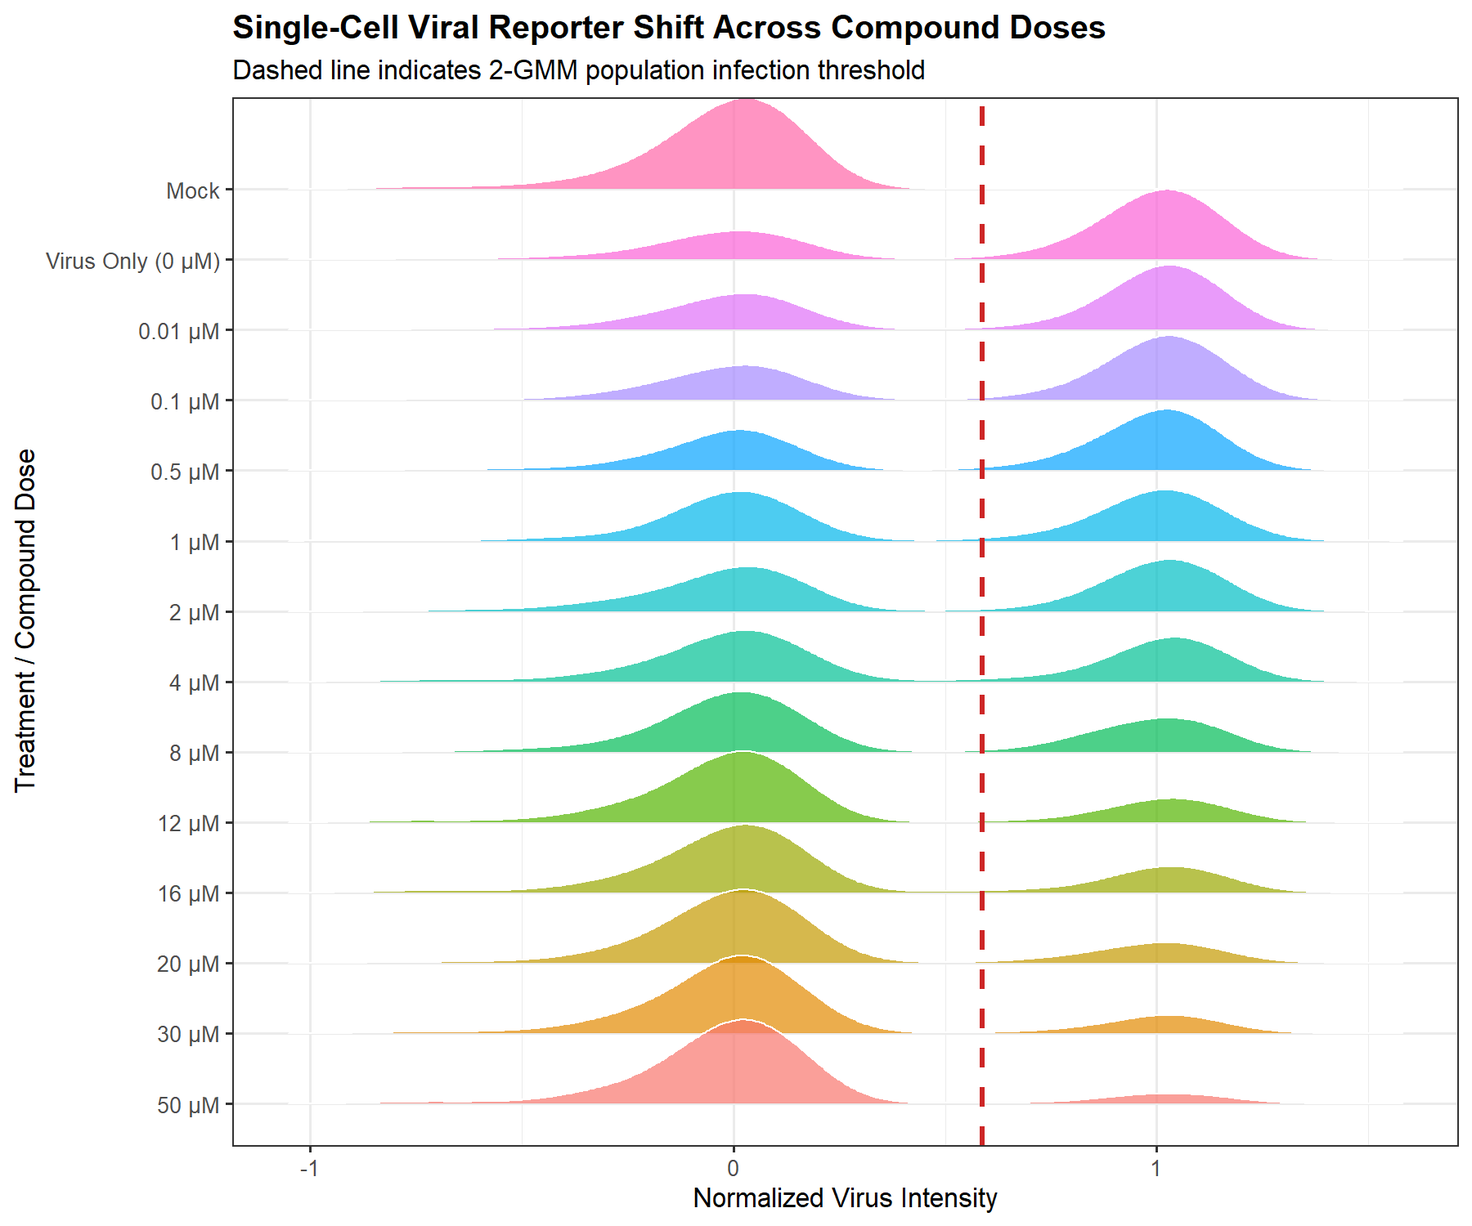
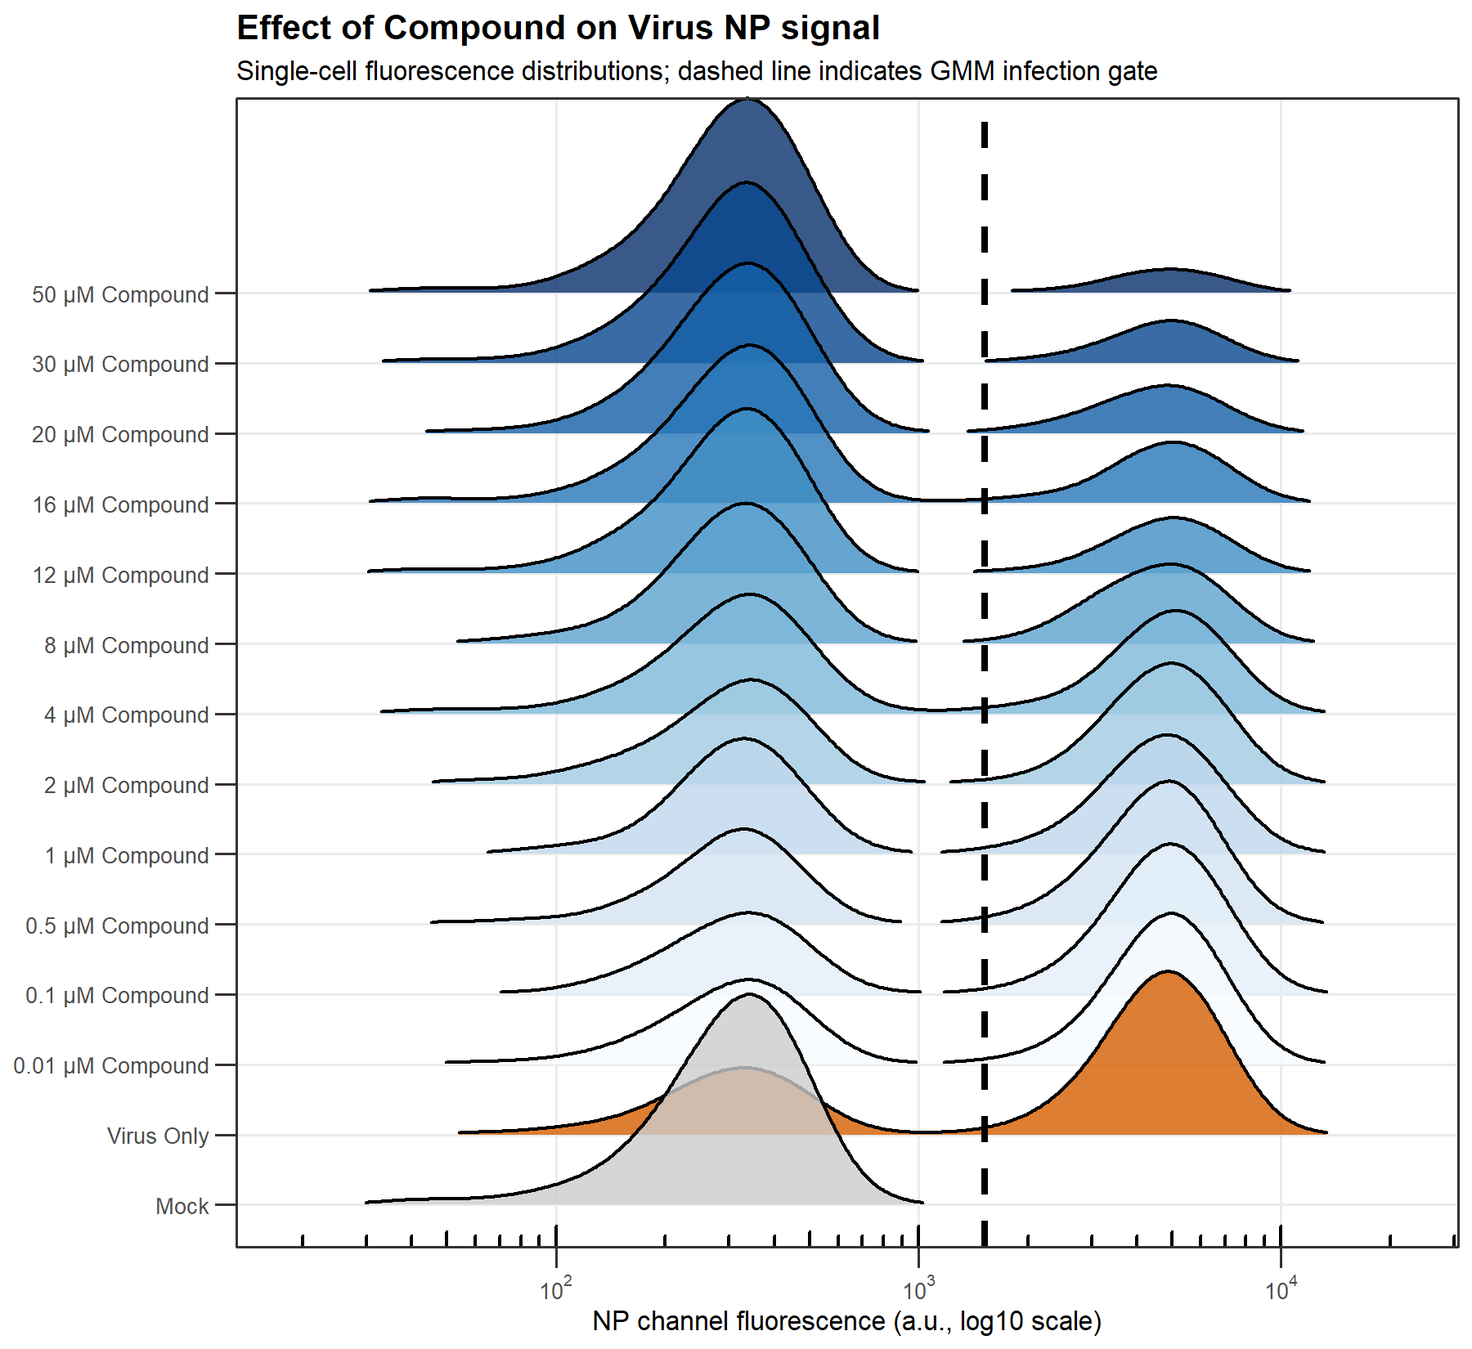
fix: update template 02 ridgeline plot to use log10 fluorescence scale and Blues color gradient

diff --git a/docs/templates/02_image-infection-dose-response/template.html b/docs/templates/02_image-infection-dose-response/template.html
@@ -318,7 +318,7 @@ pre > code.sourceCode > span > a:first-child::before { text-decoration: underlin
   <li><a href="#cell-gating-3-step-cytometric-qc-pipeline" id="toc-cell-gating-3-step-cytometric-qc-pipeline" class="nav-link" data-scroll-target="#cell-gating-3-step-cytometric-qc-pipeline">Cell Gating (3-Step Cytometric QC Pipeline)</a></li>
   <li><a href="#single-cell-np-intensity-distributions-violin-plot" id="toc-single-cell-np-intensity-distributions-violin-plot" class="nav-link" data-scroll-target="#single-cell-np-intensity-distributions-violin-plot">Single-Cell NP Intensity Distributions (Violin Plot)</a></li>
   <li><a href="#infection-gate-control-based-normalization-population-gmm" id="toc-infection-gate-control-based-normalization-population-gmm" class="nav-link" data-scroll-target="#infection-gate-control-based-normalization-population-gmm">Infection Gate: Control-Based Normalization + Population GMM</a></li>
-  <li><a href="#single-cell-population-shift-across-doses-ridgeline-density" id="toc-single-cell-population-shift-across-doses-ridgeline-density" class="nav-link" data-scroll-target="#single-cell-population-shift-across-doses-ridgeline-density">Single-Cell Population Shift Across Doses (Ridgeline Density)</a></li>
+  <li><a href="#single-cell-population-shift-across-doses-ridgeline-plot" id="toc-single-cell-population-shift-across-doses-ridgeline-plot" class="nav-link" data-scroll-target="#single-cell-population-shift-across-doses-ridgeline-plot">Single-Cell Population Shift Across Doses (Ridgeline Plot)</a></li>
   <li><a href="#host-cell-viability-cytotoxicity-cc50" id="toc-host-cell-viability-cytotoxicity-cc50" class="nav-link" data-scroll-target="#host-cell-viability-cytotoxicity-cc50">Host Cell Viability &amp; Cytotoxicity (CC50)</a></li>
   <li><a href="#percent-infection-per-well-table" id="toc-percent-infection-per-well-table" class="nav-link" data-scroll-target="#percent-infection-per-well-table">Percent Infection per Well Table</a></li>
   <li><a href="#co-primary-endpoint-1-infection-dose-response-4pl-curve" id="toc-co-primary-endpoint-1-infection-dose-response-4pl-curve" class="nav-link" data-scroll-target="#co-primary-endpoint-1-infection-dose-response-4pl-curve">Co-Primary Endpoint 1: % Infection Dose-Response (4PL Curve)</a>
@@ -950,39 +950,73 @@ Note
 </details>
 </div>
 </section>
-<section id="single-cell-population-shift-across-doses-ridgeline-density" class="level1">
-<h1>Single-Cell Population Shift Across Doses (Ridgeline Density)</h1>
+<section id="single-cell-population-shift-across-doses-ridgeline-plot" class="level1">
+<h1>Single-Cell Population Shift Across Doses (Ridgeline Plot)</h1>
 <div class="cell">
 <details class="code-fold">
 <summary>Code</summary>
-<div class="code-copy-outer-scaffold"><div class="sourceCode cell-code" id="cb11"><pre class="sourceCode r code-with-copy"><code class="sourceCode r"><span id="cb11-1"><a href="#cb11-1" aria-hidden="true" tabindex="-1"></a>ridge_df <span class="ot">&lt;-</span> master_df_final <span class="sc">%&gt;%</span></span>
-<span id="cb11-2"><a href="#cb11-2" aria-hidden="true" tabindex="-1"></a>  <span class="fu">filter</span>(Treatment <span class="sc">%in%</span> <span class="fu">c</span>(<span class="st">"Mock"</span>, <span class="st">"Virus Only"</span>, <span class="st">"Virus + Compound"</span>)) <span class="sc">%&gt;%</span></span>
-<span id="cb11-3"><a href="#cb11-3" aria-hidden="true" tabindex="-1"></a>  <span class="fu">mutate</span>(<span class="at">Condition =</span> <span class="fu">case_when</span>(</span>
-<span id="cb11-4"><a href="#cb11-4" aria-hidden="true" tabindex="-1"></a>    Treatment <span class="sc">%in%</span> <span class="fu">c</span>(<span class="st">"Mock"</span>, <span class="st">"Mock+Ab"</span>) <span class="sc">~</span> <span class="st">"Mock"</span>,</span>
-<span id="cb11-5"><a href="#cb11-5" aria-hidden="true" tabindex="-1"></a>    Treatment <span class="sc">==</span> <span class="st">"Virus Only"</span>           <span class="sc">~</span> <span class="st">"Virus Only (0 µM)"</span>,</span>
-<span id="cb11-6"><a href="#cb11-6" aria-hidden="true" tabindex="-1"></a>    <span class="cn">TRUE</span>                                <span class="sc">~</span> <span class="fu">paste0</span>(Concentration_uM, <span class="st">" "</span>, DOSE_UNIT)</span>
-<span id="cb11-7"><a href="#cb11-7" aria-hidden="true" tabindex="-1"></a>  ))</span>
+<div class="code-copy-outer-scaffold"><div class="sourceCode cell-code" id="cb11"><pre class="sourceCode r code-with-copy"><code class="sourceCode r"><span id="cb11-1"><a href="#cb11-1" aria-hidden="true" tabindex="-1"></a>treatment_order <span class="ot">&lt;-</span> <span class="fu">c</span>(<span class="st">"Mock+Ab"</span>, <span class="st">"Mock"</span>, <span class="st">"Virus Only"</span>, <span class="st">"Virus + Compound"</span>)</span>
+<span id="cb11-2"><a href="#cb11-2" aria-hidden="true" tabindex="-1"></a></span>
+<span id="cb11-3"><a href="#cb11-3" aria-hidden="true" tabindex="-1"></a>bdgr_levels <span class="ot">&lt;-</span> master_df_final <span class="sc">%&gt;%</span></span>
+<span id="cb11-4"><a href="#cb11-4" aria-hidden="true" tabindex="-1"></a>  <span class="fu">filter</span>(Treatment <span class="sc">==</span> <span class="st">"Virus + Compound"</span>) <span class="sc">%&gt;%</span></span>
+<span id="cb11-5"><a href="#cb11-5" aria-hidden="true" tabindex="-1"></a>  <span class="fu">distinct</span>(Concentration_uM) <span class="sc">%&gt;%</span></span>
+<span id="cb11-6"><a href="#cb11-6" aria-hidden="true" tabindex="-1"></a>  <span class="fu">arrange</span>(Concentration_uM) <span class="sc">%&gt;%</span></span>
+<span id="cb11-7"><a href="#cb11-7" aria-hidden="true" tabindex="-1"></a>  <span class="fu">pull</span>(Concentration_uM)</span>
 <span id="cb11-8"><a href="#cb11-8" aria-hidden="true" tabindex="-1"></a></span>
-<span id="cb11-9"><a href="#cb11-9" aria-hidden="true" tabindex="-1"></a>dose_order <span class="ot">&lt;-</span> <span class="fu">c</span>(</span>
-<span id="cb11-10"><a href="#cb11-10" aria-hidden="true" tabindex="-1"></a>  <span class="st">"Mock"</span>, <span class="st">"Virus Only (0 µM)"</span>,</span>
-<span id="cb11-11"><a href="#cb11-11" aria-hidden="true" tabindex="-1"></a>  <span class="fu">paste0</span>(<span class="fu">sort</span>(<span class="fu">unique</span>(master_df_final<span class="sc">$</span>Concentration_uM[<span class="sc">!</span><span class="fu">is.na</span>(master_df_final<span class="sc">$</span>Concentration_uM) <span class="sc">&amp;</span> master_df_final<span class="sc">$</span>Concentration_uM <span class="sc">&gt;</span> <span class="dv">0</span>])), <span class="st">" "</span>, DOSE_UNIT)</span>
-<span id="cb11-12"><a href="#cb11-12" aria-hidden="true" tabindex="-1"></a>)</span>
-<span id="cb11-13"><a href="#cb11-13" aria-hidden="true" tabindex="-1"></a>ridge_df <span class="ot">&lt;-</span> ridge_df <span class="sc">%&gt;%</span></span>
-<span id="cb11-14"><a href="#cb11-14" aria-hidden="true" tabindex="-1"></a>  <span class="fu">mutate</span>(<span class="at">Condition =</span> <span class="fu">factor</span>(Condition, <span class="at">levels =</span> <span class="fu">rev</span>(dose_order)))</span>
-<span id="cb11-15"><a href="#cb11-15" aria-hidden="true" tabindex="-1"></a></span>
-<span id="cb11-16"><a href="#cb11-16" aria-hidden="true" tabindex="-1"></a>p_ridgeline <span class="ot">&lt;-</span> <span class="fu">ggplot</span>(ridge_df, <span class="fu">aes</span>(<span class="at">x =</span> x_norm, <span class="at">y =</span> Condition, <span class="at">fill =</span> Condition)) <span class="sc">+</span></span>
-<span id="cb11-17"><a href="#cb11-17" aria-hidden="true" tabindex="-1"></a>  ggridges<span class="sc">::</span><span class="fu">geom_density_ridges</span>(<span class="at">alpha =</span> <span class="fl">0.7</span>, <span class="at">scale =</span> <span class="fl">1.3</span>, <span class="at">color =</span> <span class="st">"white"</span>, <span class="at">linewidth =</span> <span class="fl">0.3</span>) <span class="sc">+</span></span>
-<span id="cb11-18"><a href="#cb11-18" aria-hidden="true" tabindex="-1"></a>  <span class="fu">geom_vline</span>(<span class="at">xintercept =</span> threshold_final, <span class="at">linetype =</span> <span class="st">"dashed"</span>, <span class="at">color =</span> <span class="st">"firebrick3"</span>, <span class="at">linewidth =</span> <span class="fl">0.7</span>) <span class="sc">+</span></span>
-<span id="cb11-19"><a href="#cb11-19" aria-hidden="true" tabindex="-1"></a>  <span class="fu">labs</span>(</span>
-<span id="cb11-20"><a href="#cb11-20" aria-hidden="true" tabindex="-1"></a>    <span class="at">title =</span> <span class="st">"Single-Cell Viral Reporter Shift Across Compound Doses"</span>,</span>
-<span id="cb11-21"><a href="#cb11-21" aria-hidden="true" tabindex="-1"></a>    <span class="at">subtitle =</span> <span class="st">"Dashed line indicates 2-GMM population infection threshold"</span>,</span>
-<span id="cb11-22"><a href="#cb11-22" aria-hidden="true" tabindex="-1"></a>    <span class="at">x =</span> <span class="st">"Normalized Virus Intensity"</span>,</span>
-<span id="cb11-23"><a href="#cb11-23" aria-hidden="true" tabindex="-1"></a>    <span class="at">y =</span> <span class="st">"Treatment / Compound Dose"</span></span>
-<span id="cb11-24"><a href="#cb11-24" aria-hidden="true" tabindex="-1"></a>  ) <span class="sc">+</span></span>
-<span id="cb11-25"><a href="#cb11-25" aria-hidden="true" tabindex="-1"></a>  <span class="fu">theme_bw</span>(<span class="at">base_size =</span> <span class="dv">8</span>) <span class="sc">+</span></span>
-<span id="cb11-26"><a href="#cb11-26" aria-hidden="true" tabindex="-1"></a>  <span class="fu">theme</span>(<span class="at">legend.position =</span> <span class="st">"none"</span>, <span class="at">plot.title =</span> <span class="fu">element_text</span>(<span class="at">face =</span> <span class="st">"bold"</span>))</span>
+<span id="cb11-9"><a href="#cb11-9" aria-hidden="true" tabindex="-1"></a>plot_df <span class="ot">&lt;-</span> master_df_final <span class="sc">%&gt;%</span></span>
+<span id="cb11-10"><a href="#cb11-10" aria-hidden="true" tabindex="-1"></a>  <span class="fu">filter</span>(Treatment <span class="sc">%in%</span> treatment_order) <span class="sc">%&gt;%</span></span>
+<span id="cb11-11"><a href="#cb11-11" aria-hidden="true" tabindex="-1"></a>  <span class="fu">mutate</span>(</span>
+<span id="cb11-12"><a href="#cb11-12" aria-hidden="true" tabindex="-1"></a>    <span class="at">group_label =</span> <span class="fu">case_when</span>(</span>
+<span id="cb11-13"><a href="#cb11-13" aria-hidden="true" tabindex="-1"></a>      Treatment <span class="sc">%in%</span> <span class="fu">c</span>(<span class="st">"Mock"</span>, <span class="st">"Mock+Ab"</span>) <span class="sc">~</span> <span class="st">"Mock"</span>,</span>
+<span id="cb11-14"><a href="#cb11-14" aria-hidden="true" tabindex="-1"></a>      Treatment <span class="sc">==</span> <span class="st">"Virus Only"</span>           <span class="sc">~</span> <span class="st">"Virus Only"</span>,</span>
+<span id="cb11-15"><a href="#cb11-15" aria-hidden="true" tabindex="-1"></a>      <span class="cn">TRUE</span> <span class="sc">~</span> <span class="fu">paste0</span>(Concentration_uM, <span class="st">" "</span>, DOSE_UNIT, <span class="st">" "</span>, COMPOUND_NAME)</span>
+<span id="cb11-16"><a href="#cb11-16" aria-hidden="true" tabindex="-1"></a>    ),</span>
+<span id="cb11-17"><a href="#cb11-17" aria-hidden="true" tabindex="-1"></a>    <span class="at">group_label =</span> <span class="fu">fct_inorder</span>(group_label)</span>
+<span id="cb11-18"><a href="#cb11-18" aria-hidden="true" tabindex="-1"></a>  ) <span class="sc">%&gt;%</span></span>
+<span id="cb11-19"><a href="#cb11-19" aria-hidden="true" tabindex="-1"></a>  <span class="fu">mutate</span>(</span>
+<span id="cb11-20"><a href="#cb11-20" aria-hidden="true" tabindex="-1"></a>    <span class="at">fill_key =</span> <span class="fu">case_when</span>(</span>
+<span id="cb11-21"><a href="#cb11-21" aria-hidden="true" tabindex="-1"></a>      Treatment <span class="sc">%in%</span> <span class="fu">c</span>(<span class="st">"Mock"</span>, <span class="st">"Mock+Ab"</span>) <span class="sc">~</span> <span class="st">"Mock"</span>,</span>
+<span id="cb11-22"><a href="#cb11-22" aria-hidden="true" tabindex="-1"></a>      Treatment <span class="sc">==</span> <span class="st">"Virus Only"</span>           <span class="sc">~</span> <span class="st">"Virus Only"</span>,</span>
+<span id="cb11-23"><a href="#cb11-23" aria-hidden="true" tabindex="-1"></a>      <span class="cn">TRUE</span> <span class="sc">~</span> <span class="fu">paste0</span>(COMPOUND_NAME, <span class="st">"_"</span>, Concentration_uM)</span>
+<span id="cb11-24"><a href="#cb11-24" aria-hidden="true" tabindex="-1"></a>    ),</span>
+<span id="cb11-25"><a href="#cb11-25" aria-hidden="true" tabindex="-1"></a>    <span class="at">fill_key =</span> <span class="fu">factor</span>(fill_key)</span>
+<span id="cb11-26"><a href="#cb11-26" aria-hidden="true" tabindex="-1"></a>  )</span>
 <span id="cb11-27"><a href="#cb11-27" aria-hidden="true" tabindex="-1"></a></span>
-<span id="cb11-28"><a href="#cb11-28" aria-hidden="true" tabindex="-1"></a><span class="fu">print</span>(p_ridgeline)</span></code></pre></div><button title="Copy to Clipboard" class="code-copy-button"><i class="bi"></i></button></div>
+<span id="cb11-28"><a href="#cb11-28" aria-hidden="true" tabindex="-1"></a>bdgr_fill_keys <span class="ot">&lt;-</span> <span class="fu">paste0</span>(COMPOUND_NAME, <span class="st">"_"</span>, bdgr_levels)</span>
+<span id="cb11-29"><a href="#cb11-29" aria-hidden="true" tabindex="-1"></a>n_bdgr         <span class="ot">&lt;-</span> <span class="fu">length</span>(bdgr_fill_keys)</span>
+<span id="cb11-30"><a href="#cb11-30" aria-hidden="true" tabindex="-1"></a>bdgr_cols      <span class="ot">&lt;-</span> <span class="fu">colorRampPalette</span>(RColorBrewer<span class="sc">::</span><span class="fu">brewer.pal</span>(<span class="dv">9</span>, <span class="st">"Blues"</span>))(n_bdgr)</span>
+<span id="cb11-31"><a href="#cb11-31" aria-hidden="true" tabindex="-1"></a></span>
+<span id="cb11-32"><a href="#cb11-32" aria-hidden="true" tabindex="-1"></a>fill_values <span class="ot">&lt;-</span> <span class="fu">c</span>(</span>
+<span id="cb11-33"><a href="#cb11-33" aria-hidden="true" tabindex="-1"></a>  <span class="fu">setNames</span>(<span class="st">"grey80"</span>, <span class="st">"Mock"</span>),</span>
+<span id="cb11-34"><a href="#cb11-34" aria-hidden="true" tabindex="-1"></a>  <span class="fu">setNames</span>(<span class="st">"#D55E00"</span>, <span class="st">"Virus Only"</span>),</span>
+<span id="cb11-35"><a href="#cb11-35" aria-hidden="true" tabindex="-1"></a>  <span class="fu">setNames</span>(bdgr_cols, bdgr_fill_keys)</span>
+<span id="cb11-36"><a href="#cb11-36" aria-hidden="true" tabindex="-1"></a>)</span>
+<span id="cb11-37"><a href="#cb11-37" aria-hidden="true" tabindex="-1"></a></span>
+<span id="cb11-38"><a href="#cb11-38" aria-hidden="true" tabindex="-1"></a><span class="co"># Infection threshold back-transformed to raw fluorescence scale</span></span>
+<span id="cb11-39"><a href="#cb11-39" aria-hidden="true" tabindex="-1"></a>raw_threshold <span class="ot">&lt;-</span> <span class="dv">10</span><span class="sc">^</span>(L_p_val <span class="sc">+</span> threshold_final <span class="sc">*</span> (H_p_val <span class="sc">-</span> L_p_val))</span>
+<span id="cb11-40"><a href="#cb11-40" aria-hidden="true" tabindex="-1"></a></span>
+<span id="cb11-41"><a href="#cb11-41" aria-hidden="true" tabindex="-1"></a>p_ridgeline <span class="ot">&lt;-</span> <span class="fu">ggplot</span>(plot_df, <span class="fu">aes</span>(<span class="at">x =</span> virus_intensity, <span class="at">y =</span> group_label, <span class="at">fill =</span> fill_key)) <span class="sc">+</span></span>
+<span id="cb11-42"><a href="#cb11-42" aria-hidden="true" tabindex="-1"></a>  <span class="fu">geom_density_ridges</span>(<span class="at">alpha =</span> <span class="fl">0.8</span>, <span class="at">scale =</span> <span class="dv">3</span>, <span class="at">rel_min_height =</span> <span class="fl">0.01</span>) <span class="sc">+</span></span>
+<span id="cb11-43"><a href="#cb11-43" aria-hidden="true" tabindex="-1"></a>  <span class="fu">geom_vline</span>(<span class="at">xintercept =</span> raw_threshold, <span class="at">color =</span> <span class="st">"black"</span>, <span class="at">linetype =</span> <span class="st">"dashed"</span>, <span class="at">linewidth =</span> <span class="dv">1</span>) <span class="sc">+</span></span>
+<span id="cb11-44"><a href="#cb11-44" aria-hidden="true" tabindex="-1"></a>  <span class="fu">scale_x_log10</span>(<span class="at">labels =</span> scales<span class="sc">::</span><span class="fu">trans_format</span>(<span class="st">"log10"</span>, scales<span class="sc">::</span><span class="fu">math_format</span>(<span class="dv">10</span><span class="sc">^</span>.x)), <span class="at">minor_breaks =</span> <span class="cn">NULL</span>) <span class="sc">+</span></span>
+<span id="cb11-45"><a href="#cb11-45" aria-hidden="true" tabindex="-1"></a>  <span class="fu">annotation_logticks</span>(<span class="at">sides =</span> <span class="st">"b"</span>, <span class="at">short =</span> <span class="fu">unit</span>(<span class="fl">1.2</span>, <span class="st">"mm"</span>), <span class="at">mid =</span> <span class="fu">unit</span>(<span class="fl">1.6</span>, <span class="st">"mm"</span>), <span class="at">long =</span> <span class="fu">unit</span>(<span class="fl">2.2</span>, <span class="st">"mm"</span>)) <span class="sc">+</span></span>
+<span id="cb11-46"><a href="#cb11-46" aria-hidden="true" tabindex="-1"></a>  <span class="fu">scale_fill_manual</span>(<span class="at">values =</span> fill_values, <span class="at">breaks =</span> <span class="fu">names</span>(fill_values)) <span class="sc">+</span></span>
+<span id="cb11-47"><a href="#cb11-47" aria-hidden="true" tabindex="-1"></a>  <span class="fu">labs</span>(</span>
+<span id="cb11-48"><a href="#cb11-48" aria-hidden="true" tabindex="-1"></a>    <span class="at">title =</span> <span class="fu">paste</span>(<span class="st">"Effect of"</span>, COMPOUND_NAME, <span class="st">"on"</span>, VIRUS_NAME, <span class="st">"NP signal"</span>),</span>
+<span id="cb11-49"><a href="#cb11-49" aria-hidden="true" tabindex="-1"></a>    <span class="at">subtitle =</span> <span class="st">"Single-cell fluorescence distributions; dashed line indicates GMM infection gate"</span>,</span>
+<span id="cb11-50"><a href="#cb11-50" aria-hidden="true" tabindex="-1"></a>    <span class="at">x =</span> <span class="st">"NP channel fluorescence (a.u., log10 scale)"</span>,</span>
+<span id="cb11-51"><a href="#cb11-51" aria-hidden="true" tabindex="-1"></a>    <span class="at">y =</span> <span class="cn">NULL</span></span>
+<span id="cb11-52"><a href="#cb11-52" aria-hidden="true" tabindex="-1"></a>  ) <span class="sc">+</span></span>
+<span id="cb11-53"><a href="#cb11-53" aria-hidden="true" tabindex="-1"></a>  <span class="fu">theme_bw</span>(<span class="at">base_size =</span> <span class="dv">8</span>) <span class="sc">+</span></span>
+<span id="cb11-54"><a href="#cb11-54" aria-hidden="true" tabindex="-1"></a>  <span class="fu">theme</span>(</span>
+<span id="cb11-55"><a href="#cb11-55" aria-hidden="true" tabindex="-1"></a>    <span class="at">legend.position   =</span> <span class="st">"none"</span>,</span>
+<span id="cb11-56"><a href="#cb11-56" aria-hidden="true" tabindex="-1"></a>    <span class="at">axis.ticks.length =</span> <span class="fu">unit</span>(<span class="fl">2.2</span>, <span class="st">"mm"</span>),</span>
+<span id="cb11-57"><a href="#cb11-57" aria-hidden="true" tabindex="-1"></a>    <span class="at">panel.grid.minor  =</span> <span class="fu">element_blank</span>(),</span>
+<span id="cb11-58"><a href="#cb11-58" aria-hidden="true" tabindex="-1"></a>    <span class="at">plot.title        =</span> <span class="fu">element_text</span>(<span class="at">face =</span> <span class="st">"bold"</span>, <span class="at">size =</span> <span class="dv">10</span>)</span>
+<span id="cb11-59"><a href="#cb11-59" aria-hidden="true" tabindex="-1"></a>  ) <span class="sc">+</span></span>
+<span id="cb11-60"><a href="#cb11-60" aria-hidden="true" tabindex="-1"></a>  <span class="fu">coord_cartesian</span>(<span class="at">clip =</span> <span class="st">"off"</span>)</span>
+<span id="cb11-61"><a href="#cb11-61" aria-hidden="true" tabindex="-1"></a></span>
+<span id="cb11-62"><a href="#cb11-62" aria-hidden="true" tabindex="-1"></a><span class="fu">print</span>(p_ridgeline)</span></code></pre></div><button title="Copy to Clipboard" class="code-copy-button"><i class="bi"></i></button></div>
 </details>
 <div class="cell-output-display">
 <div>
@@ -993,7 +1027,7 @@ Note
 </div>
 <details class="code-fold">
 <summary>Code</summary>
-<div class="code-copy-outer-scaffold"><div class="sourceCode cell-code" id="cb12"><pre class="sourceCode r code-with-copy"><code class="sourceCode r"><span id="cb12-1"><a href="#cb12-1" aria-hidden="true" tabindex="-1"></a><span class="fu">ggsave</span>(<span class="st">"Plots/single_cell_ridgeline_shift.tiff"</span>, p_ridgeline, <span class="at">width =</span> <span class="fl">5.5</span>, <span class="at">height =</span> <span class="fl">4.8</span>, <span class="at">units =</span> <span class="st">"in"</span>, <span class="at">dpi =</span> <span class="dv">300</span>)</span></code></pre></div><button title="Copy to Clipboard" class="code-copy-button"><i class="bi"></i></button></div>
+<div class="code-copy-outer-scaffold"><div class="sourceCode cell-code" id="cb12"><pre class="sourceCode r code-with-copy"><code class="sourceCode r"><span id="cb12-1"><a href="#cb12-1" aria-hidden="true" tabindex="-1"></a><span class="fu">ggsave</span>(<span class="st">"Plots/compound_ridgeline.tiff"</span>, p_ridgeline, <span class="at">width =</span> <span class="fl">5.5</span>, <span class="at">height =</span> <span class="fl">4.5</span>, <span class="at">units =</span> <span class="st">"in"</span>, <span class="at">dpi =</span> <span class="dv">300</span>, <span class="at">compression =</span> <span class="st">"lzw"</span>, <span class="at">device =</span> ragg<span class="sc">::</span>agg_tiff)</span></code></pre></div><button title="Copy to Clipboard" class="code-copy-button"><i class="bi"></i></button></div>
 </details>
 </div>
 </section>
